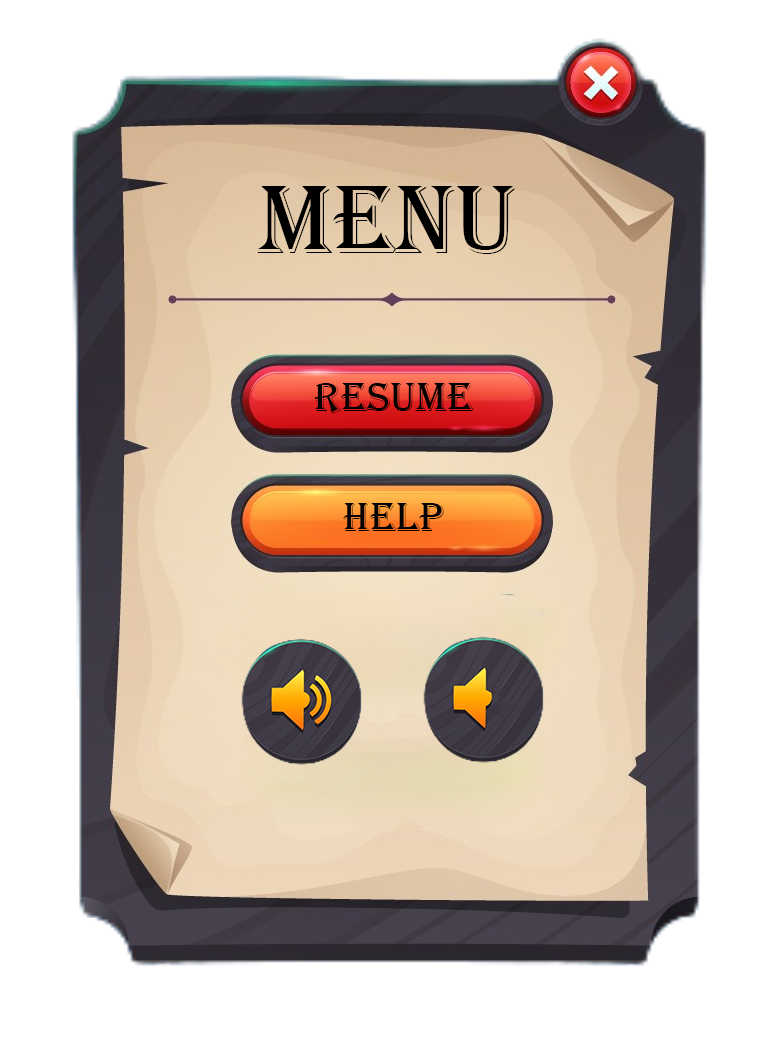
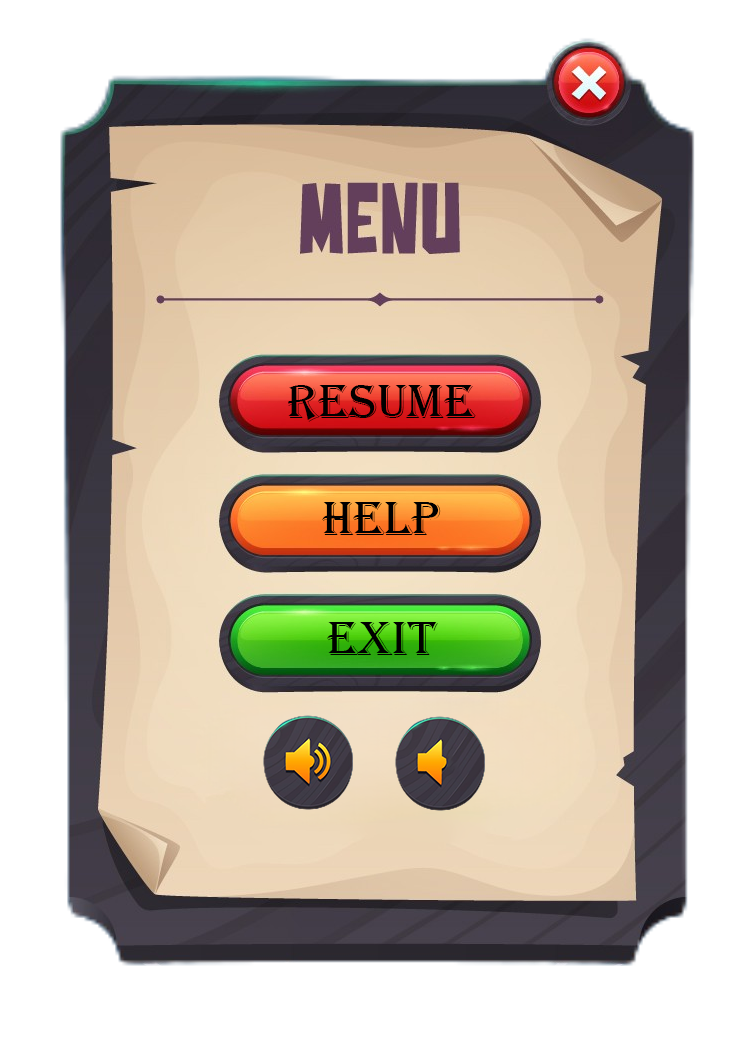
add menu page

diff --git a/src/gameplay/Players/GameGLEventListener.java b/src/gameplay/Players/GameGLEventListener.java
@@ -20,7 +20,9 @@ public class GameGLEventListener extends AnimationListener {
     CLASS VARIABLES
     -----------------
      */
-
+    boolean paused=false;
+    String pause="playing";
+    boolean helpInGame=false;
     Menus UI = new Menus();
 
     public static final int MAX_WIDTH = 100, MAX_HEIGHT = 100; // set max height and width to translate sprites using integers
@@ -64,6 +66,9 @@ public class GameGLEventListener extends AnimationListener {
             ,"Zombie//Zmove5.png","Zombie//Zmove6.png","Zombie//Zmove7.png","Zombie//Zmove8.png","Zombie//Zmove9.png"
             ,"Zombie//Zmove10.png","Zombie//Zmove11.png","Zombie//Zmove12.png","Zombie//Zmove13.png","Zombie//Zmove14.png"
             ,"Zombie//Zmove15.png","Zombie//Zmove16.png",
+
+            "Buttons/Pause.png","Views/Menus/Pause.png",
+
 
             // backGround picture
             "Night.png"
@@ -226,8 +231,12 @@ public class GameGLEventListener extends AnimationListener {
             UI.currentPage(gl);
 
         if(UI.getCurrent().equals("game")) {
-            handleKeyPress(); // handle input
+            if(!paused){
+                handleKeyPress(); // handle input
+            }
             DrawBackGround(gl);
+            DrawSprite(gl, 95, 95, 71, 1, 1);
+
 //      ----------------------------------------------------draw player1 bullets------------------------------------------------------
             Iterator<Bullet> iterator1 = player1.getBullets().iterator(); // making iterator of bullets to use its remove method to avoid "ConcurrentModificationException"
             while (iterator1.hasNext()) { // check if there are still elements
@@ -235,7 +244,9 @@ public class GameGLEventListener extends AnimationListener {
 
                 if (bullet.getX() < MAX_WIDTH) { // if bullet is still in the screen draw it then increment its x for next frame
                     bullet.drawBullet(gl, bullet.getX(), bullet.getY(), 40, 3, 3);
-                    bullet.move(1);
+                   if (!paused){
+                       bullet.move(1);
+                   }
 
                 } else { // if not then remove the bullet to lower sources usage (performance)
                     iterator1.remove();
@@ -251,7 +262,9 @@ public class GameGLEventListener extends AnimationListener {
 
                 if (bullet.getX() < MAX_WIDTH) { // if bullet is still in the screen draw it then increment its x for next frame
                     bullet.drawBullet(gl, bullet.getX(), bullet.getY(), 40, 3, 3);
-                    bullet.move(1);
+                    if (!paused){
+                        bullet.move(1);
+                    }
 
                 } else { // if not then remove the bullet to lower sources usage (performance)
                     iterator2.remove();
@@ -286,15 +299,15 @@ public class GameGLEventListener extends AnimationListener {
                     if (zombie.getX() > 20) {
                         zombieAnimationIndex %=17;
                         zombie.DrawZombie(gl,zombie.getX(),zombie.getY(),zombieMove[zombieAnimationIndex],10,10);
-                        zombieAnimationIndex++;
-
-                        if (UI.getDifficulty().equals("easy")){
-                            zombie.Move(0.2);
-                        }
-                        else if(UI.getDifficulty().equals("medium")){
-                            zombie.Move(0.5);
-                        } else if (UI.getDifficulty().equals("hard")) {
-                            zombie.Move(1);
+                        if (!paused) {
+                            zombieAnimationIndex++;
+                            if (UI.getDifficulty().equals("easy")) {
+                                zombie.Move(0.2);
+                            } else if (UI.getDifficulty().equals("medium")) {
+                                zombie.Move(0.5);
+                            } else if (UI.getDifficulty().equals("hard")) {
+                                zombie.Move(1);
+                            }
                         }
 //                    System.out.println(zombieAnimationIndex);
                     } else {
@@ -312,7 +325,18 @@ public class GameGLEventListener extends AnimationListener {
                 checkPlayerCollisions(player2);
                 checkBulletCollision(player2);
             }
+            if (paused&&!helpInGame) {
+                DrawSprite(gl, 50, 50, 72, 6, 7);
+            }
+            if (helpInGame) {
+                DrawSprite(gl, 50, 50, 49, 6, 7);
+
+            }
         }
+    }
+    public void resetGame(){
+        player1.getBullets().clear();
+        player2.getBullets().clear();
     }
 
     public void DrawBackGround(GL gl) {
@@ -390,7 +414,7 @@ public class GameGLEventListener extends AnimationListener {
                         bulletIterator.remove(); // Remove the bullet
                         zombies.remove(i); // Remove the zombie
                         check[i] = 0;
-                        player1.gotAKill();
+                        player.gotAKill();
                         break; // Break out of the loop as we have removed the bullet and the zombie
                     }
                 }
@@ -451,8 +475,8 @@ public class GameGLEventListener extends AnimationListener {
         // get click position
         int xClick = (int)((x / width) * 100);
         int yClick = 100 - (int)(100 * y / height);
-//        System.out.println(xClick);
-//        System.out.println(yClick);
+        System.out.println(xClick+","+yClick);
+
 
 //      ------------------------------handle home page buttons-------------------------------
         switch (UI.getCurrent()) {
@@ -533,8 +557,47 @@ public class GameGLEventListener extends AnimationListener {
                     UI.setCurrent("game");
                 }
             }
+            case "game" -> {
+                if (xClick >= 91 && xClick <= 98 && yClick >= 91 && yClick <= 100) { // pause button has been clicked
+                    paused=true;
+                    pause="pause";
+
+
+                }
+            }
+
+
+
         }
-//      ------------------------------handle login credits buttons----------------------------
+//      --------------------------------------- handel pause button ----------------------------------------------------
+        if (pause.equals("pause")&&!helpInGame) {
+            if (xClick >= 63 && xClick <= 69 && yClick >= 78 && yClick <= 83) { // exit button has been clicked
+                UI.setCurrent("game");
+                paused = false;
+                pause="playing";
+
+            }else if (xClick >= 38 && xClick <= 62 && yClick >= 56 && yClick <= 62){// resume button
+                paused=false;
+            }else if (xClick >= 38 && xClick <= 62 && yClick >= 48 && yClick <= 54){// help in game button
+                helpInGame=true;
+            }else if (xClick >= 38 && xClick <= 62 && yClick >= 40 && yClick <= 45){// back to home menu button
+                UI.setCurrent("home");
+                pause="playing";
+                paused=false;
+                resetGame();
+            }else if (xClick >= 51 && xClick <= 58 && yClick >= 32 && yClick <= 37){// mute button
+
+            }else if (xClick >= 41 && xClick <= 48 && yClick >= 31 && yClick <= 37){//music button
+
+            }
+        }
+        if (helpInGame){
+            if (xClick >= 69 && xClick <= 72 && yClick >= 76 && yClick <= 80) { // exit button has been clicked
+                helpInGame=false;
+
+            }
+        }
+//      ------------------------------handel pause button----------------------------------------------------------------------
     }
 
 //  ---------------------------------------------buttons check -----------------------------------------------------------------

diff --git a/src/UI/Menus.java b/src/UI/Menus.java
@@ -75,7 +75,7 @@ public class Menus {
     }
 //  -----------------------------------------------------check the current page and draw it -----------------------------------------
 
-//  -----------------------------------------------------draw backGround function----------------------------------------------------
+    //  -----------------------------------------------------draw backGround function----------------------------------------------------
     public void DrawBackGround(GL gl,int x, int y, int index){
         gl.glEnable(GL.GL_BLEND);
         gl.glBindTexture(GL.GL_TEXTURE_2D, textures[index]);
@@ -99,7 +99,7 @@ public class Menus {
     }
 //  -----------------------------------------------------draw backGround function----------------------------------------------------
 
-//  -----------------------------------------------------draw sprite function-------------------------------------------------------
+    //  -----------------------------------------------------draw sprite function-------------------------------------------------------
     public void DrawSprite(GL gl,int x, int y, int index, float scaleX,float scaleY){
         gl.glEnable(GL.GL_BLEND);
         gl.glBindTexture(GL.GL_TEXTURE_2D, textures[index]);
